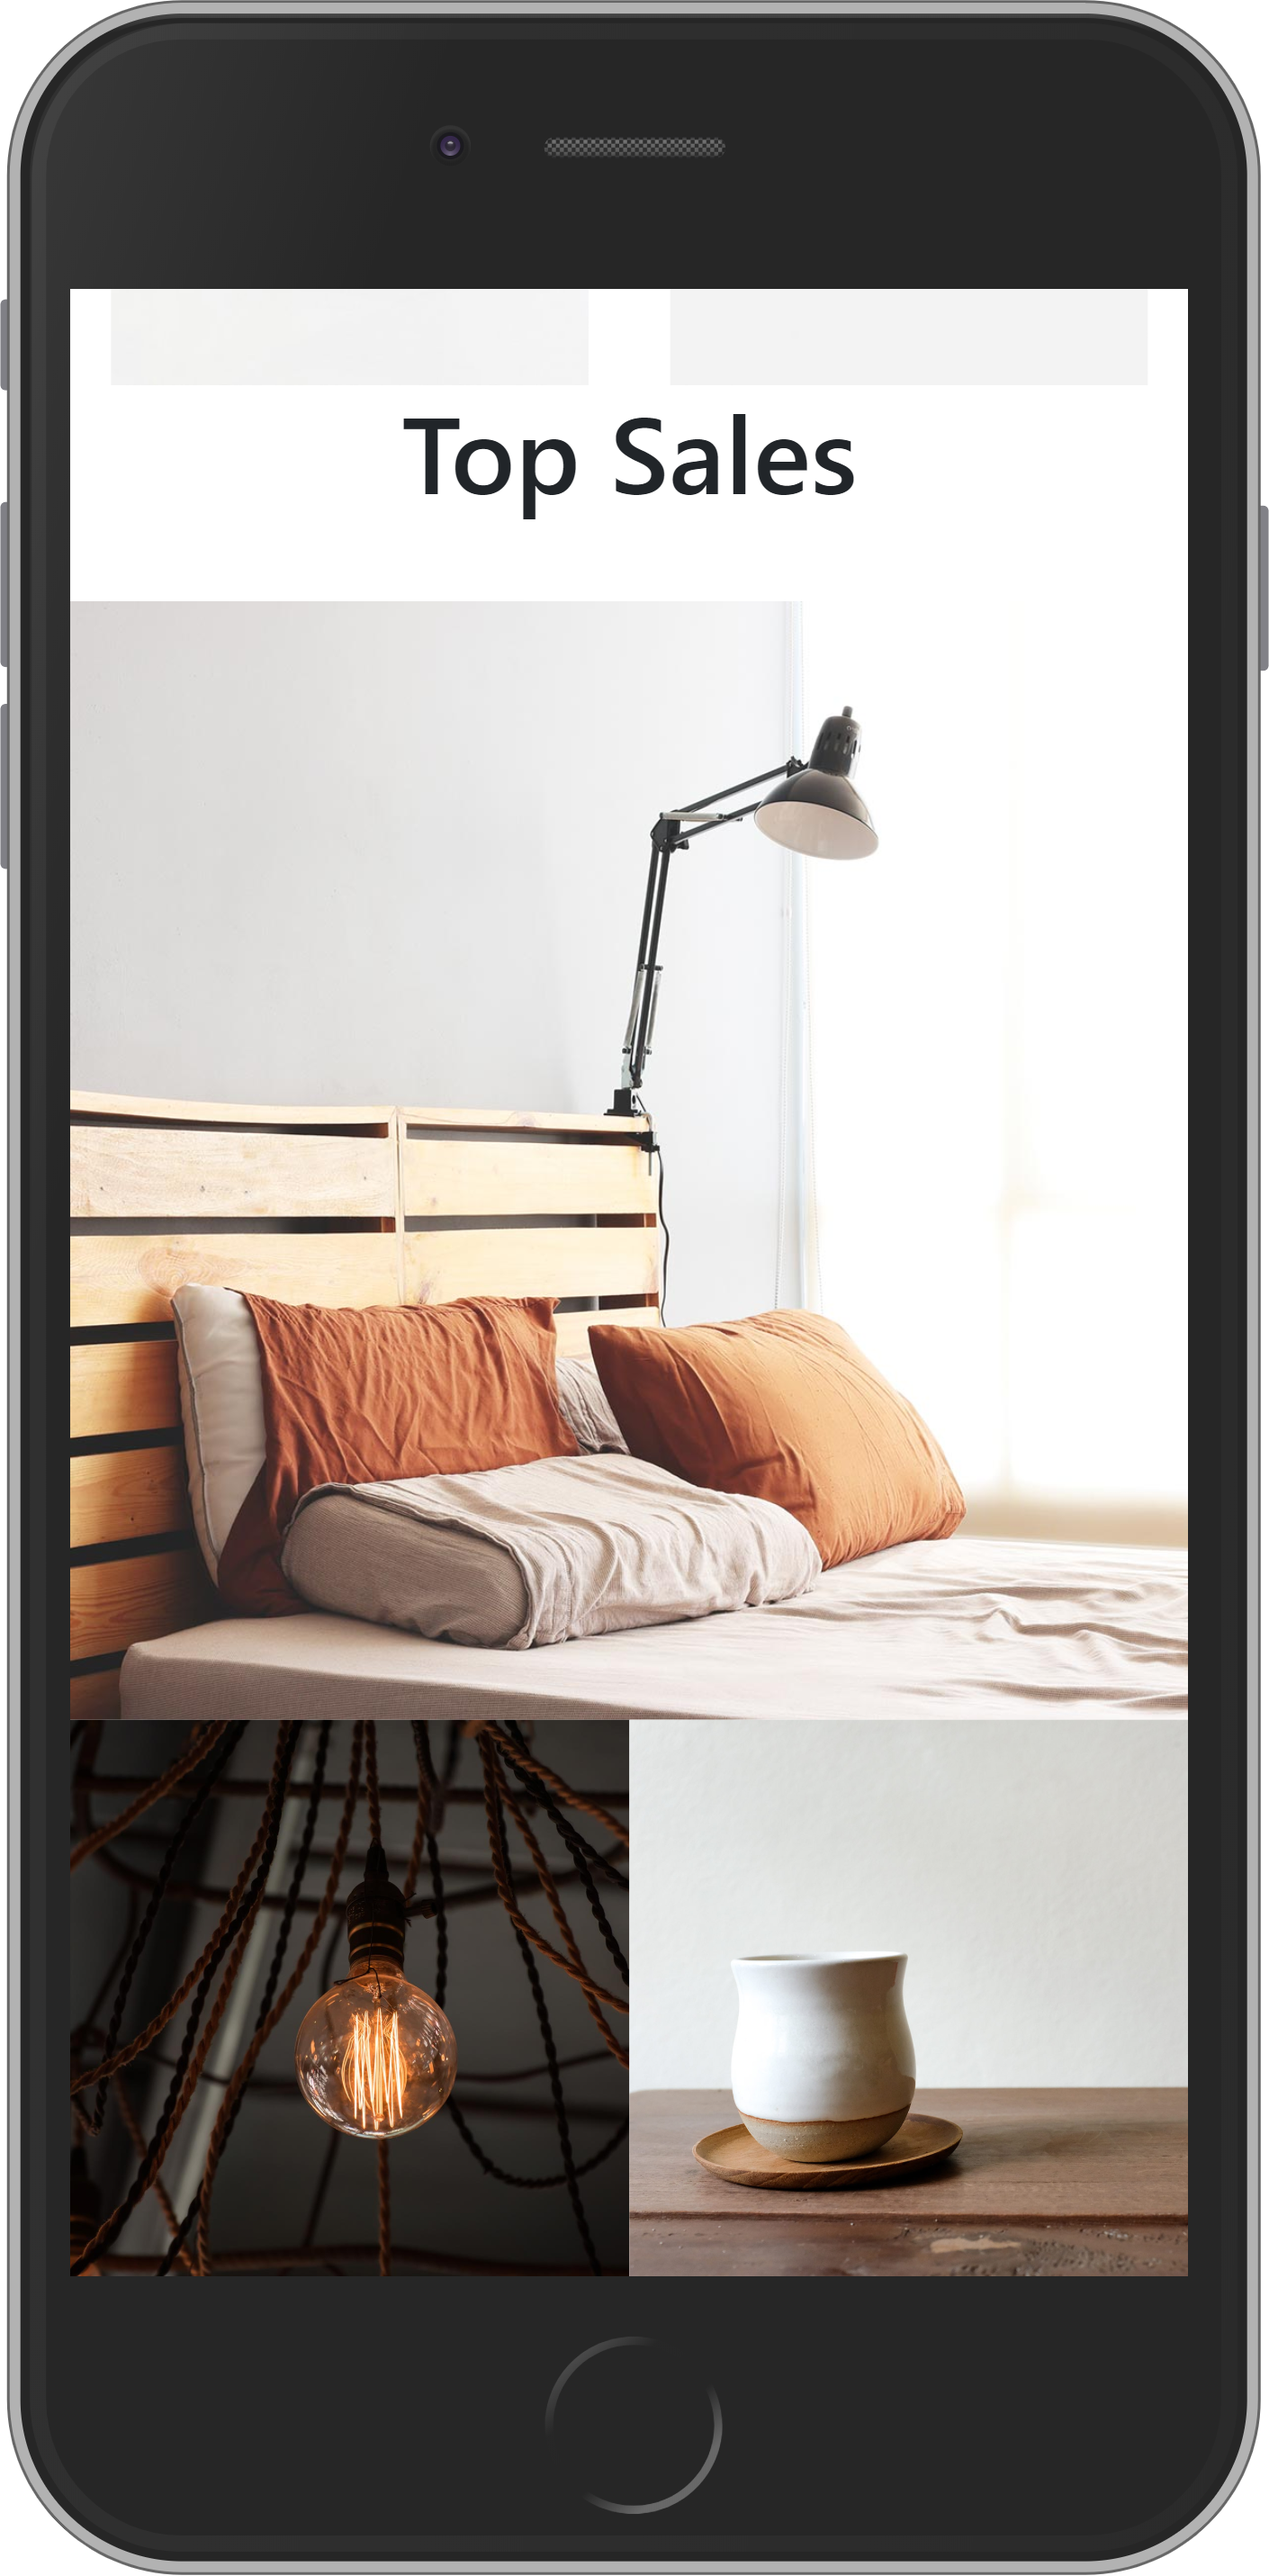
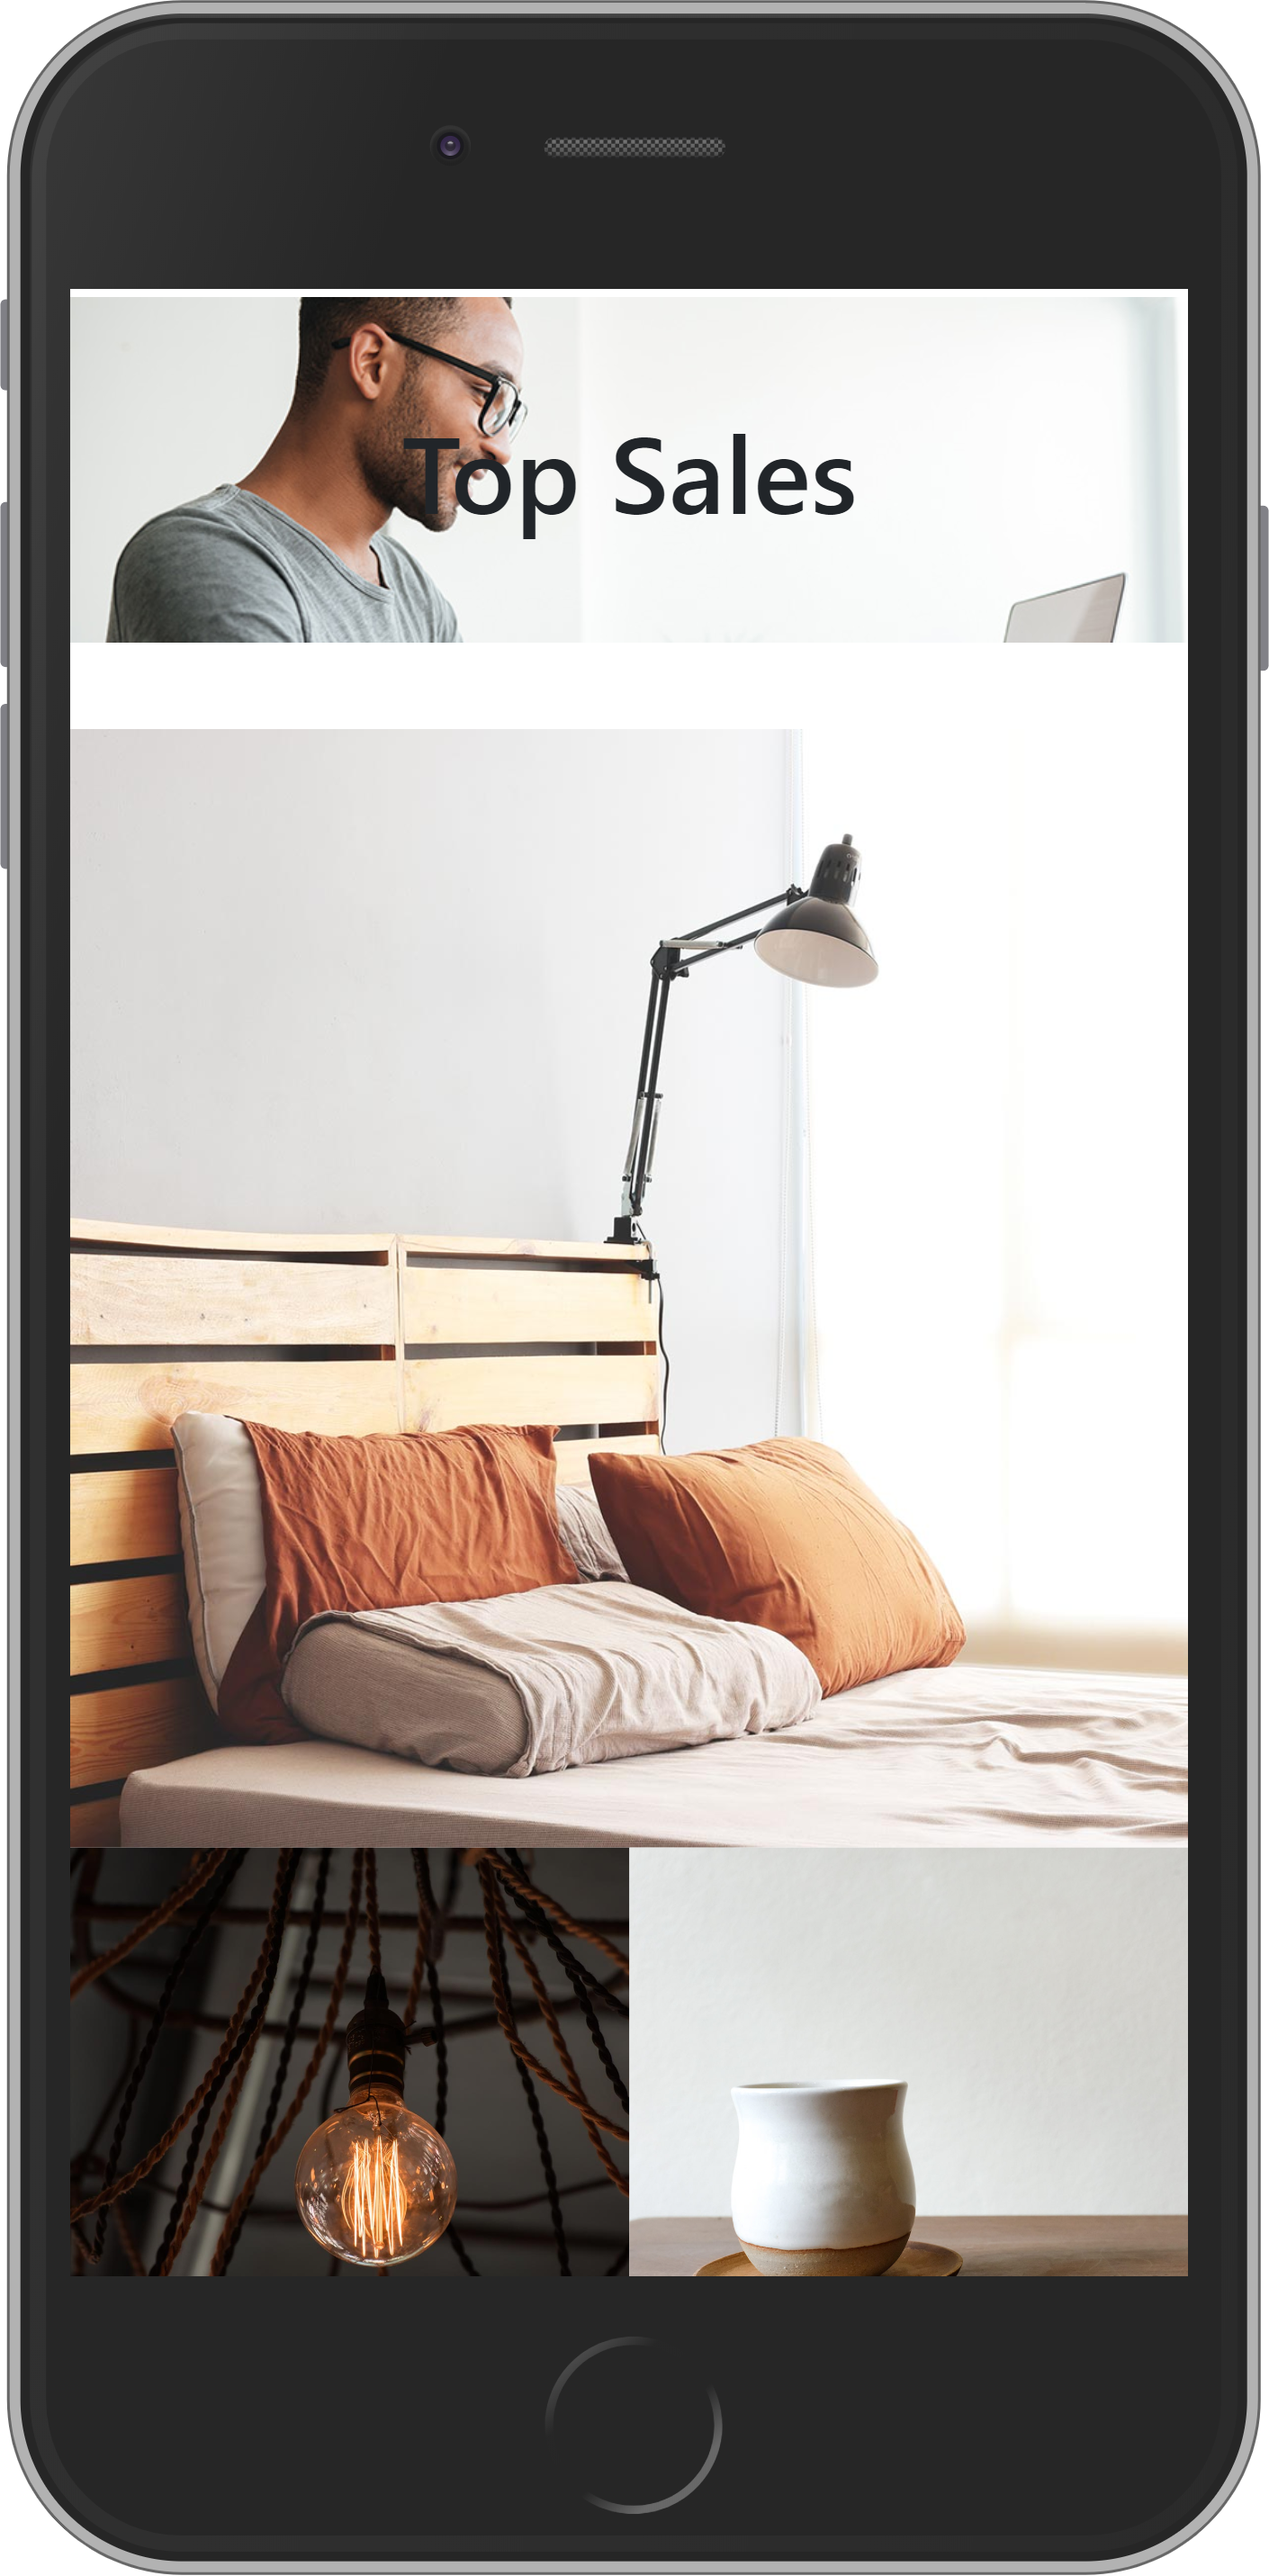
imagen y footer our service

diff --git a/OurServices.html b/OurServices.html
@@ -116,7 +116,7 @@
                 </div>
                 <!-- imagen -->
                 <div class="col-12 col-md-4">
-                    <img src="/img/ipadiphone.png" alt="" style="width: 100%;">
+                    <img src="/img/ipadphone.png" alt="" style="width: 100%;">
                 </div>
                 <!-- descripciones 1 mobile-->
                 <div class="col-12 col-md-3 " id="ourservice__body__desc1_mobile">
@@ -184,13 +184,13 @@
             <!-- imagen con barras que se cargan -->
             <div class="row px-0 mt-5">
                 <!-- imagen -->
-                <div class="col-12 col-md-6">
+                <div class="col-12 col-md-7">
                     <img src="/img/silla.jpg" alt="" style="width: 100%;">
                 </div>
                 <!-- texto con barras -->
                 <!-- texto -->
-                <div class="col-12 col-md-6">
-                    <div class="row">
+                <div class="col-12 col-md-5">
+                    <div class="row pt-5">
                         <div class="col">
                             <Span class="font-weight-bold">Calculá tus muebles</Span>
                             <br>
@@ -277,6 +277,79 @@
             </div>
         </div>
     </div>
+     <!-- comienzo footer -->
+     <div class="container-fluid">
+            <!-- cards footer -->
+            <div class="row justify-content-between">
+      
+              <div class="col-12 col-md-3 mb-3" style="max-width: 15rem;">
+                <div class="card-body">
+                  <h5 class="card-title">Servicio al Cliente</h5>
+                  <br>
+                  <a href="" class="footerText">
+                    <p class="card-text">Ayuda</p>
+                  </a>
+                  <a href="" class="footerText">
+                    <p class="card-text">Contacto</p>
+                  </a>
+                  <a href="" class="footerText">
+                    <p class="card-text">Términos y Condiciones</p>
+                  </a>
+                </div>
+              </div>
+      
+              <div class="col-12 col-md-3 mb-3" style="max-width: 15rem;">
+                <div class="card-body">
+                  <h5 class="card-title">Empresa</h5>
+                  <br>
+                  <a href="" class="footerText">
+                    <p class="card-text">Quienes Somos</p>
+                  </a>
+                  <a href="" class="footerText">
+                    <p class="card-text">Nuestro Servicio</p>
+                  </a>
+                  <a href="" class="footerText">
+                    <p class="card-text">FAQs</p>
+                  </a>
+                </div>
+              </div>
+      
+              <div class="col-12 col-md-3 mb-3" style="max-width: 15rem;">
+                <div class="card-body">
+                  <h5 class="card-title">Redes Sociales</h5>
+                  <br>
+                  <a href="" class="footerText">
+                    <p class="card-text">Facebook</p>
+                  </a>
+                  <a href="" class="footerText">
+                    <p class="card-text">Instagram</p>
+                  </a>
+                  <a href="" class="footerText">
+                    <p class="card-text">Twitter</p>
+                  </a>
+                </div>
+              </div>
+      
+              <div class="col-12 col-md-3 mb-3" style="max-width: 15rem;">
+                <div class="card-body">
+                  <h5 class="card-title">Perfil</h5>
+                  <br>
+                  <a href="" class="footerText">
+                    <p class="card-text">Mi Cuenta</p>
+                  </a>
+                  <a href="" class="footerText">
+                    <p class="card-text">Rastreo de Orden</p>
+                  </a>
+                  <a href="" class="footerText">
+                    <p class="card-text">Apoyo</p>
+                  </a>
+                </div>
+              </div>
+            </div>
+      
+            <div class="row"></div>
+      
+          </div>
     </div>
     <!-- Optional JavaScript -->
     <!-- jQuery first, then Popper.js, then Bootstrap JS -->

diff --git a/css/style.css b/css/style.css
@@ -193,18 +193,6 @@
     top: 1;
 }
 
-#myProgress {
-    width: 100%;
-    background-color: #ddd;
-}
-
-#myBar {
-    width: 1%;
-    height: 10px;
-    background-color: black;
-}
-
-
 /* pagina login */
 
 .bd-placeholder-img {
